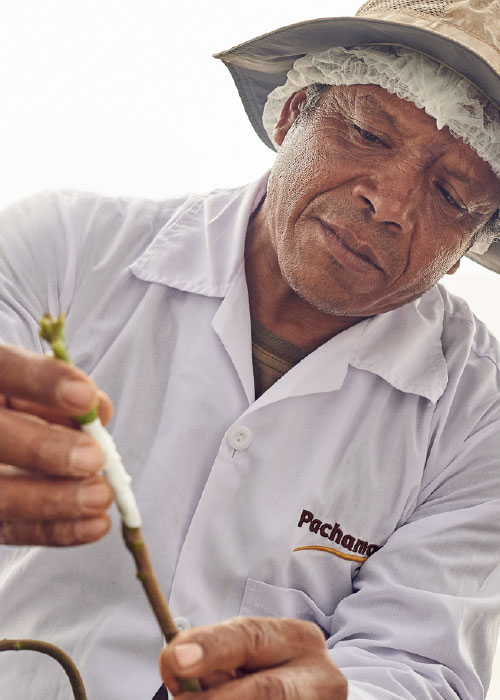
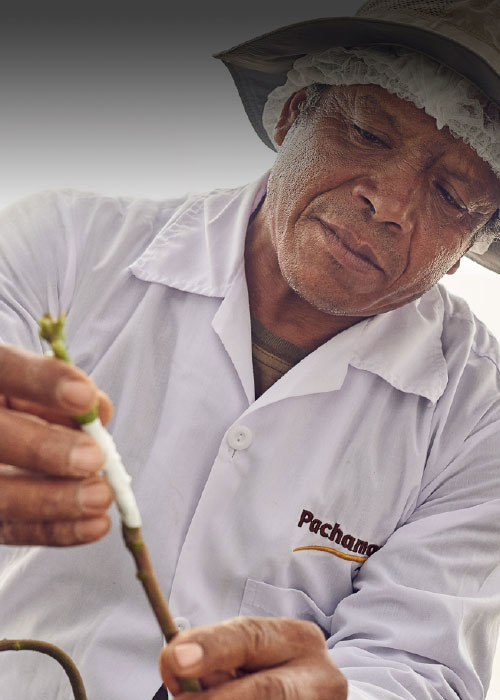
imagenes remplazadas

Changed region(s): [[0.0, 0.0, 1.0, 0.3]]

diff --git a/src/app/seccions/home/home.module.css b/src/app/seccions/home/home.module.css
@@ -153,7 +153,7 @@
     background-size: cover;
     background-repeat: no-repeat;
     background-position: top;
-    background-image: url("./assets/3.jpg");
+    background-image: url("./assets/3.png");
     position: relative;
   }
 }
